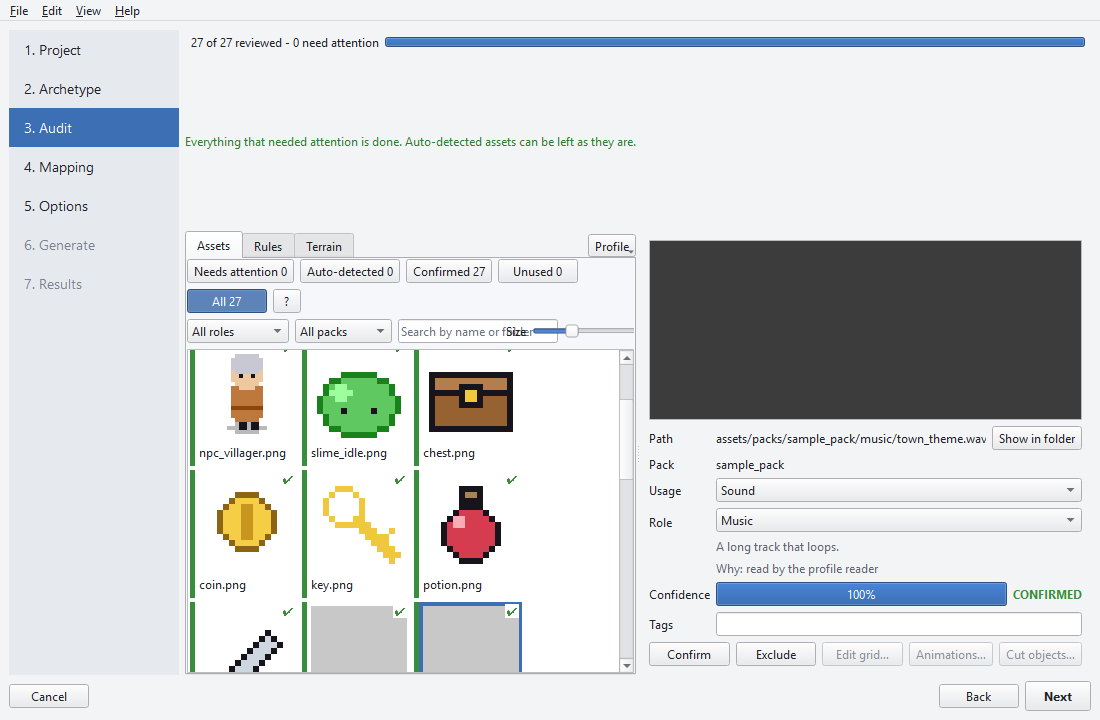
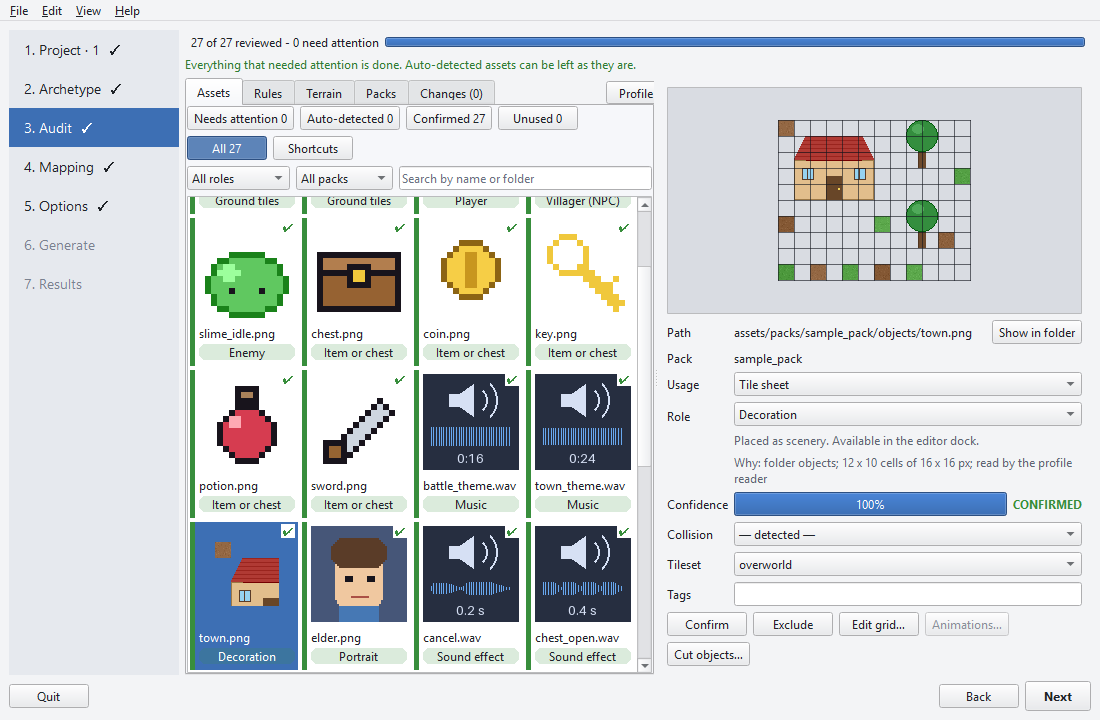
T12.65: Documentation, screenshots and changelogs
Regenerates the wizard screenshots and adds the four new surfaces (pack
cards, regeneration preview, conflict resolver, Storage dialog) to the tool
and the user guide. The tool no longer reads this machine's settings and
flushes deferred deletes, which had left stale rows painted on Mapping.

The audit detail panel now opens as wide as its form needs (at most 55% of
the page, never below the grid's minimum) until the user places the splitter;
at the default window size it had scrolled sideways.

diff --git a/tools/make_doc_screenshots.py b/tools/make_doc_screenshots.py
@@ -27,11 +27,85 @@ sys.path.insert(0, str(REPO))
 
 PAGES = ("project", "archetype", "audit", "mapping", "options")
 
+# The conflict resolver's picture: a generated script the user edited, and a newer version of it.
+CONFLICT_FILE = "addons/rpg_runtime/world/sign.gd"
+CONFLICT_MINE = (
+    (
+        "@export var dialogue: RpgDialogueResource\n",
+        "@export var dialogue: RpgDialogueResource\n"
+        "@export var read_once := false  # my change: a sign that is read only once\n",
+    ),
+)
+CONFLICT_NEW = (
+    (
+        '\t\tpush_error("[RPG-DLG] no dialogue box to show the sign")\n',
+        '\t\tpush_warning("[RPG-DLG] no dialogue box to show the sign")\n',
+    ),
+)
+
+
+def _edited(text: str, edits: tuple[tuple[str, str], ...]) -> str:
+    for old, new in edits:
+        assert old in text, old
+        text = text.replace(old, new)
+    return text
+
+
+def conflict_project(root: Path) -> Path:
+    """A project folder with one conflict: the last generated file (in a backup, as the ledger
+    records it), the user's edit of it, and the new version beside it as ``.rpggen-new``."""
+    from rpggen import paths
+    from rpggen.core import conflicts, ledger, promote
+
+    base = (REPO / "godot_templates" / CONFLICT_FILE).read_text(encoding="utf-8")
+    mine = paths.from_posix_rel(CONFLICT_FILE, root)
+    backup = paths.from_posix_rel(CONFLICT_FILE, root / promote.BACKUPS_NAME / "20260101-120000")
+    for path, text in (
+        (backup, base),
+        (mine, _edited(base, CONFLICT_MINE)),
+        (mine.with_name(mine.name + conflicts.NEW_SUFFIX), _edited(base, CONFLICT_NEW)),
+    ):
+        path.parent.mkdir(parents=True, exist_ok=True)
+        path.write_text(text, encoding="utf-8", newline="\n")
+    book = ledger.Ledger()
+    book.files[CONFLICT_FILE] = ledger.LedgerEntry(
+        ledger.hash_bytes(base.encode("utf-8"), CONFLICT_FILE), "runtime", "generated"
+    )
+    ledger_path = paths.from_posix_rel(paths.LEDGER, root)
+    ledger_path.parent.mkdir(parents=True, exist_ok=True)
+    book.save(ledger_path)
+    return root
+
+
+def promotion_summary():  # type: ignore[no-untyped-def]
+    """A regeneration after a pack update and one edited script, for the preview's picture."""
+    from rpggen.core.promote import PromotionSummary
+
+    return PromotionSummary(
+        write=[
+            "generated/tilesets/rpggen_sample_pack.tres",
+            "generated/sprite_frames/hero.tres",
+            "generated/sprite_frames/slime.tres",
+            "generated/objects/tree_oak.tscn",
+            "generated/minimaps/starter_map.tres",
+            "addons/rpg_runtime/CHANGELOG.md",
+            "rpggen/asset_catalog.json",
+        ],
+        conflicts=[CONFLICT_FILE],
+        delete=["generated/objects/barrel_old.tscn"],
+        skipped_deleted=["game/data/dialogue/demo_elder.tres"],
+        backup=".rpggen_backups/20260101-120000",
+    )
+
 
 def _pump(app, seconds: float = 0.3) -> None:
+    from PySide6.QtCore import QCoreApplication, QEvent
+
     end = time.time() + seconds
     while time.time() < end:
         app.processEvents()
+        # no event loop runs here, so a widget a page replaced (deleteLater) would stay painted
+        QCoreApplication.sendPostedEvents(None, QEvent.Type.DeferredDelete)
         time.sleep(0.01)
 
 
@@ -44,17 +118,22 @@ def render(out: Path, godot: Path | None = None) -> list[Path]:
     from rpggen.gui import state as state_mod
     from rpggen.gui import theme
     from rpggen.gui.dialogs.about_dialog import AboutDialog
+    from rpggen.gui.dialogs.conflict_dialog import ConflictDialog
+    from rpggen.gui.dialogs.promotion_dialog import PromotionDialog
+    from rpggen.gui.dialogs.storage_dialog import StorageDialog
     from rpggen.gui.pages.generate_page import GeneratePage
     from rpggen.gui.pages.project_page import ProjectPage
     from rpggen.gui.wizard import OPTIONS_INDEX, MainWindow, default_pages
 
     out.mkdir(parents=True, exist_ok=True)
-    qapp = gui_app.create_app([])
-    assert isinstance(qapp, QApplication)
     written: list[Path] = []
     with tempfile.TemporaryDirectory(prefix="rpggen_shots_") as tmp:
         tmp_path = Path(tmp)
+        # before the application starts: the pictures must not depend on this machine's settings
+        # (theme, language, splitter positions)
         os.environ["RPGGEN_CACHE_DIR"] = str(tmp_path / "cache")
+        qapp = gui_app.create_app([])
+        assert isinstance(qapp, QApplication)
         (tmp_path / "Documents").mkdir()
         ProjectPage.documents_dir = lambda self: tmp_path / "Documents"  # type: ignore[method-assign]
         if godot is not None:
@@ -83,6 +162,11 @@ def render(out: Path, godot: Path | None = None) -> list[Path]:
         while window.state.catalog is None and time.time() < deadline:
             _pump(qapp, 0.2)  # the pack is analyzed in the background
         _pump(qapp, 1.0)
+        window.show_page(0)  # the sample pack's card, with its format and licence
+        _pump(qapp)
+        cards = out / "pack_cards.png"
+        page0.pack_list.grab().save(str(cards))
+        written.append(cards)
         for index, name in enumerate(PAGES):
             if index == 0:
                 continue
@@ -91,7 +175,7 @@ def render(out: Path, godot: Path | None = None) -> list[Path]:
                 window.current_page.grid.chips["chipAll"].click()  # the sample pack needs no review
                 model = window.current_page.grid.view.model()
                 rows = [model.index(r, 0) for r in range(model.rowCount())]
-                pick = next((i for i in rows if "town" in str(i.data())), rows[0])
+                pick = next((i for i in rows if str(i.data()) == "town.png"), rows[0])
                 window.current_page.grid.view.setCurrentIndex(pick)
             _pump(qapp, 1.5 if name == "audit" else 0.3)  # thumbnails load in the background
             grab(f"wizard_{name}")
@@ -115,13 +199,20 @@ def render(out: Path, godot: Path | None = None) -> list[Path]:
             grab("wizard_generate")
             window.next_button.click()
             grab("wizard_results")
-        about = AboutDialog(window)
-        about.show()
-        _pump(qapp)
-        about_path = out / "about_dialog.png"
-        about.grab().save(str(about_path))
-        written.append(about_path)
-        about.close()
+
+        def grab_dialog(widget, name: str, seconds: float = 0.3) -> None:  # type: ignore[no-untyped-def]
+            widget.show()
+            _pump(qapp, seconds)
+            path = out / f"{name}.png"
+            widget.grab().save(str(path))
+            written.append(path)
+            widget.close()
+
+        grab_dialog(AboutDialog(window), "about_dialog")
+        grab_dialog(PromotionDialog(promotion_summary(), window), "regeneration_preview")
+        resolver = ConflictDialog(conflict_project(tmp_path / "conflict_demo"), None, window)
+        grab_dialog(resolver, "conflict_resolver")
+        grab_dialog(StorageDialog(window), "storage_dialog", 1.5)  # the sizes are measured
         dialog = gui_app.CrashDialog("Traceback (most recent call last):\nValueError: example")
         dialog.show()
         _pump(qapp)

diff --git a/tests/gui/test_audit_queue.py b/tests/gui/test_audit_queue.py
@@ -191,6 +191,37 @@ def test_the_grid_gets_the_spare_height_not_the_done_label(qtbot) -> None:
     assert page.done_label.height() <= page.done_label.sizeHint().height() + 8
 
 
+def test_the_detail_panel_gets_the_width_its_content_needs(qtbot) -> None:
+    """Found while rendering the 1.0 screenshots: the side panel was narrower than the detail
+    form, which then scrolled sideways and cut its buttons off."""
+    from PySide6.QtWidgets import QApplication
+
+    from rpggen.core import app_settings
+
+    page, _state = _page(qtbot, width=1000)
+    QApplication.processEvents()
+    page.grid.chips["chipAll"].click()
+    page.grid.view.setCurrentIndex(page.grid.view.model().index(0, 0))
+    QApplication.processEvents()
+    assert page.detail is not None
+    total = sum(page.splitter.sizes())
+    needed = page.detail.minimumSizeHint().width()
+    grid_needs = page.tabs.minimumSizeHint().width()
+    # all it needs, or (a long path) the most the grid can spare, and never more than 55%
+    spare = min(needed, total * 55 // 100, total - grid_needs)
+    assert page.detail_scroll.viewport().width() >= spare - 24  # a scroll bar's width
+    assert page.splitter.sizes()[1] > 260  # wider than the splitter's own 3:2 start
+    assert page.tabs.width() >= max(grid_needs, total * 45 // 100 - 8)
+    assert not app_settings.get().splitters.get("audit")  # fitting is not the user's choice
+    # a position the user chose is kept
+    app_settings.update(splitters={"audit": [700, 200]})
+    page.splitter.setSizes([700, 200])
+    before = page.splitter.sizes()
+    page.grid.view.setCurrentIndex(page.grid.view.model().index(1, 0))
+    QApplication.processEvents()
+    assert page.splitter.sizes() == before
+
+
 def test_filter_bar_labels_and_widths_fit(qtbot) -> None:
     page, _state = _page(qtbot, width=1000)
     grid = page.grid

diff --git a/rpggen/gui/pages/audit_page.py b/rpggen/gui/pages/audit_page.py
@@ -257,6 +257,20 @@ class AuditPage(WizardPage):
         sizes = self.splitter.sizes()
         app_settings.schedule(splitters={**app_settings.get().splitters, "audit": sizes})
 
+    def _fit_side(self) -> None:
+        """Until the user places the splitter, the detail panel gets the width its content needs
+        (no sideways scrolling), up to 55% of the page (a long path must not take the grid's
+        room) and as far as the grid's own minimum allows."""
+        if self.detail is None or app_settings.get().splitters.get("audit"):
+            return
+        grid_width, side_width = self.splitter.sizes()
+        total = grid_width + side_width
+        bar = self.detail_scroll.verticalScrollBar().sizeHint().width()
+        wanted = self.detail.minimumSizeHint().width() + bar
+        wanted = min(wanted, total * 55 // 100, total - self.tabs.minimumSizeHint().width())
+        if wanted > side_width:
+            self.splitter.setSizes([total - wanted, wanted])
+
     def _on_quick_key(self, key: str) -> None:
         if key == "C":
             self._confirm_selection()
@@ -405,6 +419,7 @@ class AuditPage(WizardPage):
         if len(ids) == 1:
             self.detail.set_asset(ids[0])
             self.side.setCurrentWidget(self.detail_scroll)
+            self._fit_side()
         elif len(ids) > 1 and self.bulk is not None:
             self.detail.set_asset(None)
             self.bulk.set_assets(ids)

diff --git a/docs/dev/implementation_notes.md b/docs/dev/implementation_notes.md
@@ -251,3 +251,5 @@ T12.64 done — minimap and world map. `minimap_recipe` (after `imported_maps_re
 Batch fixes after T12.57–T12.64 (found by the integration suite). The dialogue data scripts (`RpgDialogueLine`, `RpgDialogueChoice`, `RpgDialogueResource`) are `@tool`: in the editor a non-tool script resource is a placeholder instance, and the dialogue tab's typed iteration over `line.events` read garbage and crashed the editor of any project with dialogue (only the editor path, so the script-mode tests missed it); the tab frees its scratch `RpgGameState` on predelete. `RpgStrings.format(key, arg)` falls back to the English text when no translation has the key, so the toasts no longer log a formatting error in the editor or in tests. The minimap hides while the router's current map is out of the tree (between scenes); its recipe hashes maps and tile sets with `content_hash` (Godot's per-save `unique_id` and file uid removed), so builds are deterministic and a no-op regeneration skips it; the minimap key is the project path (`game__maps__starter_map`) so the runtime holds no `res://game/` path. `build.gd` seeds `example_recipe.gd.uid` with a fixed uid (written after the import, the script would get a random one at the next import), and numbers the custom-recipe steps after the standard ones (one total).
 
 Status 2026-10-08 (`84f239b`, pushed; CI not checked) — 69 of the 71 M12 cards done; T12.65 has its text done (user guide: version control, skipped checks, `--tile-size`, `conflicts`, a map of the game features; generated README sections 18 to 21 for equipment and shops, quests, light and the minimap, the dialogue tab, the party, and the archetype part renumbered 22 after the sections it followed; the runtime README's equipment, shops, quests, gates, light and minimap; both changelogs; `00_START_HERE.md` lists M11 and M12; a status column in the M12 index; the new `docs/status.md`) but not its screenshots; T12.66 is open. `docs/status.md` lists what is left, by who can do it. Also fixed: a form-feed character in the corpus command of docs/coverage.md, where the backslash and f of the forest path had become one control character.
+
+T12.65 done — screenshots. `tools/make_doc_screenshots.py` renders 16 pictures; new: `pack_cards` (the Project page's pack list with the sample pack), `regeneration_preview` (`PromotionDialog` over a made-up `PromotionSummary`), `conflict_resolver` (`ConflictDialog` over a small project the tool builds: `world/sign.gd` as generated in a backup with its ledger hash, an edited copy and a `.rpggen-new`) and `storage_dialog`; the user guide shows each (a paragraph on pack cards in section 3, the resolver under the Results page, the change list in section 5, the Storage dialog in section 9). Three things made the old pictures wrong and are fixed in the tool: `RPGGEN_CACHE_DIR` was set after `create_app`, so the pictures used this machine's settings (a saved audit splitter position cut the detail panel off); no event loop runs in the tool, so a row the Mapping page had replaced with `deleteLater` stayed painted over the new rows (`_pump` now sends the posted `DeferredDelete` events) — the app itself was never affected; the audit picture selected `town_theme.wav` instead of `town.png`. Deviation (a file outside the card's list): `rpggen/gui/pages/audit_page.py` gets `_fit_side()`. At 1100 px the splitter's 3:2 start gave the side panel 303 px while the detail form needs 452, so it scrolled sideways and cut its buttons off (the T12.32 scroll area hid this from T12.16). Until the user places the splitter, selecting an asset widens the side panel to what the form needs, at most 55% of the page and never below the grid's minimum; a saved position is kept. Test in `tests/gui/test_audit_queue.py`. Not run after this card: the full suites (the audit, layout and release tests and ruff pass).

diff --git a/docs/status.md b/docs/status.md
@@ -6,10 +6,10 @@ tagged. Updated 2026-10-08, at commit `84f239b` on `main`. The detail of every f
 
 ## In one paragraph
 
-Every feature card of milestones M1 to M12 is implemented and tested: 69 of the 71 cards of M12,
+Every feature card of milestones M1 to M12 is implemented and tested: 70 of the 71 cards of M12,
 and every card of M1 to M11 that a program can do. Locally on Windows the unit and GUI suites
 (1395 tests), the GDScript suite (479 tests) and the integration suite pass. **Nothing has been released and no tag
-exists.** What remains is the M12 documentation card's screenshots (T12.65), the 1.0 gate
+exists.** What remains is the 1.0 gate
 (T12.66), and the work that only a person can do: the held-out pack runs (T10.09), the manual test
 pass (T11.29, extended for M12), and the manual checks the earlier gates left open. The work
 after the tag is planned: M13 (release 1.1.0) and M14 (release 1.2.0), below.
@@ -29,7 +29,7 @@ after the tag is planned: M13 (release 1.1.0) and M14 (release 1.2.0), below.
 | M9 Action RPG | Player combat, enemies, hitboxes, HUD, smoke test | Done; feel and controller check open |
 | M10 Release | Packaging, signing, diagnostics, docs, registry, export test | Done except T10.09 (held-out runs, human) and the T10.10 gate |
 | M11 Pre-release | Wizard UX, sound, autosave, game over, second map, docs | Done except T11.29 (manual pass, human); T11.30 gate passed automatically |
-| M12 Review follow-ups | Fixes, engineering, UX and 25 features (below) | 69 of 71 cards done; T12.65 partly, T12.66 open |
+| M12 Review follow-ups | Fixes, engineering, UX and 25 features (below) | 70 of 71 cards done; T12.66 (the gate) open |
 | M13 Polish (1.1.0) | Ten wizard UX cards, seven feature improvements, three additions, the lock-and-key planner, world repair (below) | Planned 2026-10-08, starts after the 1.0 tag; 0 of 24 cards done |
 | M14 Metroidvania (1.2.0) | The third archetype (below) | Planned 2026-10-08, starts after the 1.1 tag; 0 of 13 cards done |
 
@@ -70,9 +70,10 @@ the game's save and load screens.
 | T12.56 | Languages (game and wizard) | T12.70 | Keys, switches and gates |
 | | | T12.71 | Battle depth: skills, MP, elements, statuses, AI |
 
-**Part E.** T12.65 (documentation) is done for the text: the user guide, both READMEs, the
-generated READMEs, both changelogs, `00_START_HERE.md` and this page. Its screenshots are not
-regenerated yet. T12.66 (the gate) is open; see below.
+**Part E.** T12.65 (documentation) is done: the user guide, both READMEs, the generated READMEs,
+both changelogs, `00_START_HERE.md`, this page and the 16 screenshots (regenerated 2026-10-09,
+with the pack cards, the regeneration preview, the conflict resolver and the Storage dialog).
+T12.66 (the gate) is open; see below.
 
 ## After 1.0: M13 and M14
 
@@ -117,7 +118,6 @@ with a perf ceiling and CI split per archetype; T14.12 the docs; T14.13 the 1.2.
 
 | Item | Card | What to do |
 |------|------|------------|
-| Screenshots | T12.65 | Run `python tools/make_doc_screenshots.py --godot <exe>`. Mapping must show full rows and Audit no empty band; add pictures of the pack cards, the regeneration preview, the conflict resolver and the Storage dialog, and reference them in the user guide (`test_the_screenshots_match_the_files_the_guide_uses` must pass). |
 | CI on `main` | T12.66 | The last push (`84f239b`, the T12.57–T12.64 batch) has not been checked. Every job must be green: Windows and Ubuntu, both PySide6 legs, GDScript, integration and perf. |
 | Frozen smoke test on three systems | T12.66 | `release.yml` (or `python tools/package.py --smoke`) on Windows, Linux and macOS. The macOS build has never run on a Mac. |
 | Workflow dry run | T12.15 / T12.66 | The release workflow has not run on GitHub yet; run it on a branch or a test tag and fix what it finds. |

diff --git a/docs/user_guide.md b/docs/user_guide.md
@@ -46,6 +46,12 @@ executable** and a **project name**. Red text under a field says what is wrong; 
 stays disabled until everything is green. Avoid cloud-sync folders (OneDrive, Dropbox): they can
 lock files during generation (ENV-006).
 
+Each pack is a card: its name, whether it is a folder or an archive, how many files and how big,
+the format rpggen recognised (RPG Maker, LPC, Aseprite, Tiled, LDtk) and whether it found a
+licence file. A pack that cannot be read shows the reason on its card; the cross removes it.
+
+![A pack's card on the Project page](images/pack_cards.png)
+
 Rarely, a pack has a password or contains something unsafe (ARCH-002, ARCH-003, ARCH-004); extract
 it yourself and add the folder.
 
@@ -194,6 +200,8 @@ smoke-tested result replaces your folder, so a failure never leaves a half proje
 * **Resolve conflicts…** appears when generated files you changed have a new version beside them
   (`.rpggen-new`): keep yours, take the new one or merge the two, file by file
   ([regeneration.md](regeneration.md#resolving-conflicts)).
+
+  ![The conflict resolver](images/conflict_resolver.png)
 * On failure: the failing phase, the problems with a fix text, **Open failed folder**, **View
   logs** and **Export diagnostic bundle**.
 
@@ -247,6 +255,14 @@ steps on every build ([custom recipes](recipes.md)).
 
 Change options, fix the audit, or add a new release of a pack, then run rpggen on the same output
 folder. Your maps, scenes and everything under `game/` are kept. Read [regeneration](regeneration.md).
+
+Before anything is written, rpggen lists what the run will change: the files it updates, the
+generated files you changed (their new version is written beside them as `.rpggen-new`), the
+files it no longer makes, the files you deleted (they stay deleted) and where the backup goes.
+**Cancel** leaves the project exactly as it was. *Edit → Show changes before regenerating* turns
+the list off.
+
+![The changes a regeneration will make](images/regeneration_preview.png)
 
 ## 6. Troubleshooting
 
@@ -337,6 +353,8 @@ them or makes them folder rules of the open project; deleting the file forgets e
 rpggen keeps what it needs in three folders, so that a disk-cleanup tool (which empties folders
 called "cache") cannot take your work with it. **Edit → Storage…** shows how big each part is and
 clears it.
+
+![The Storage dialog](images/storage_dialog.png)
 
 | Folder | What is in it | Windows | Linux | macOS |
 |--------|---------------|---------|-------|-------|

diff --git a/CHANGELOG.md b/CHANGELOG.md
@@ -40,7 +40,8 @@ loading and playing it headless, and regenerates it later without touching your 
   your pack's own art; a **sidebar** with each step's status and jumps forward to any step that
   is ready; the Mapping page's candidates inline; an Options **summary panel**; the map preview's
   legend.
-* **Audit**: audio and font cards with playback, role badges, a filter bar that fits, a **change
+* **Audit**: the detail panel opens as wide as its form needs (it no longer scrolls sideways at
+  the default window size), audio and font cards with playback, role badges, a filter bar that fits, a **change
   history**, frame sequences (one numbered image per frame) read as animations, eight-direction
   characters, **learned rules** (rpggen remembers your fixes and proposes them for the next pack;
   *Edit → Learned rules…*), and a printable **contact sheet** (PDF or PNG).

diff --git a/docs/spec/M12_review_followups.md b/docs/spec/M12_review_followups.md
@@ -145,7 +145,7 @@ Sizes are rough: **S** under a day, **M** 1–3 days, **L** 3–7 days, **XL** m
 | T12.69 | Party followers on the map (added 2026-10-08) | M | T12.47 | done |
 | T12.70 | Keys, switches and gates (added 2026-10-08) | M | — | done |
 | T12.71 | Battle depth: skills, MP, elements, statuses, hit and evade, enemy AI rules (added 2026-10-08) | L | — | done |
-| T12.65 | Documentation, screenshots and changelogs | M | Parts A–D | text done, screenshots open |
+| T12.65 | Documentation, screenshots and changelogs | M | Parts A–D | done |
 | T12.66 | Gate (1.0.0) | M | T12.65, T10.10 | open |
 
 ---
